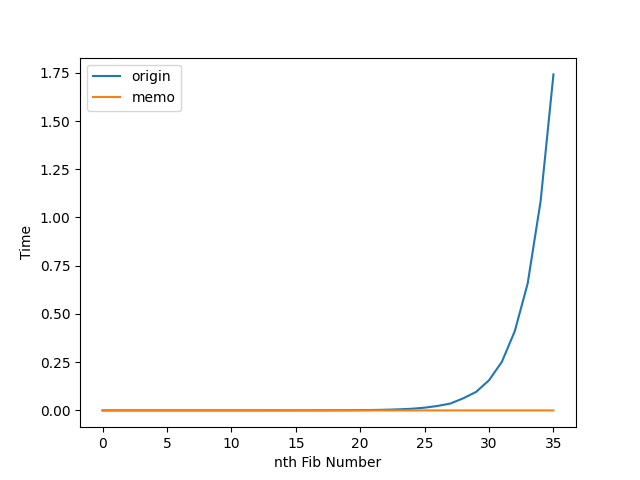
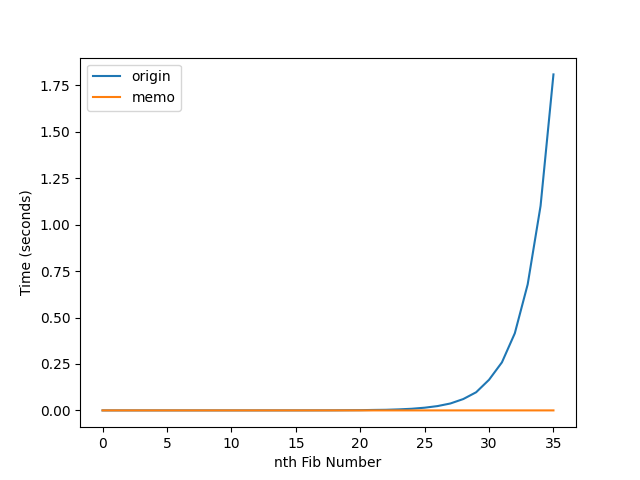
Ex1.5: added units to fig 1

diff --git a/Assign-2/Ex1/ex1.5.py b/Assign-2/Ex1/ex1.5.py
@@ -28,6 +28,6 @@ for i in range(0, 36):
 plt.plot(originoutput, label="origin")
 plt.plot(memooutput, label="memo")
 plt.xlabel("nth Fib Number")
-plt.ylabel("Time")
+plt.ylabel("Time (seconds)")
 plt.legend()
 plt.show()
